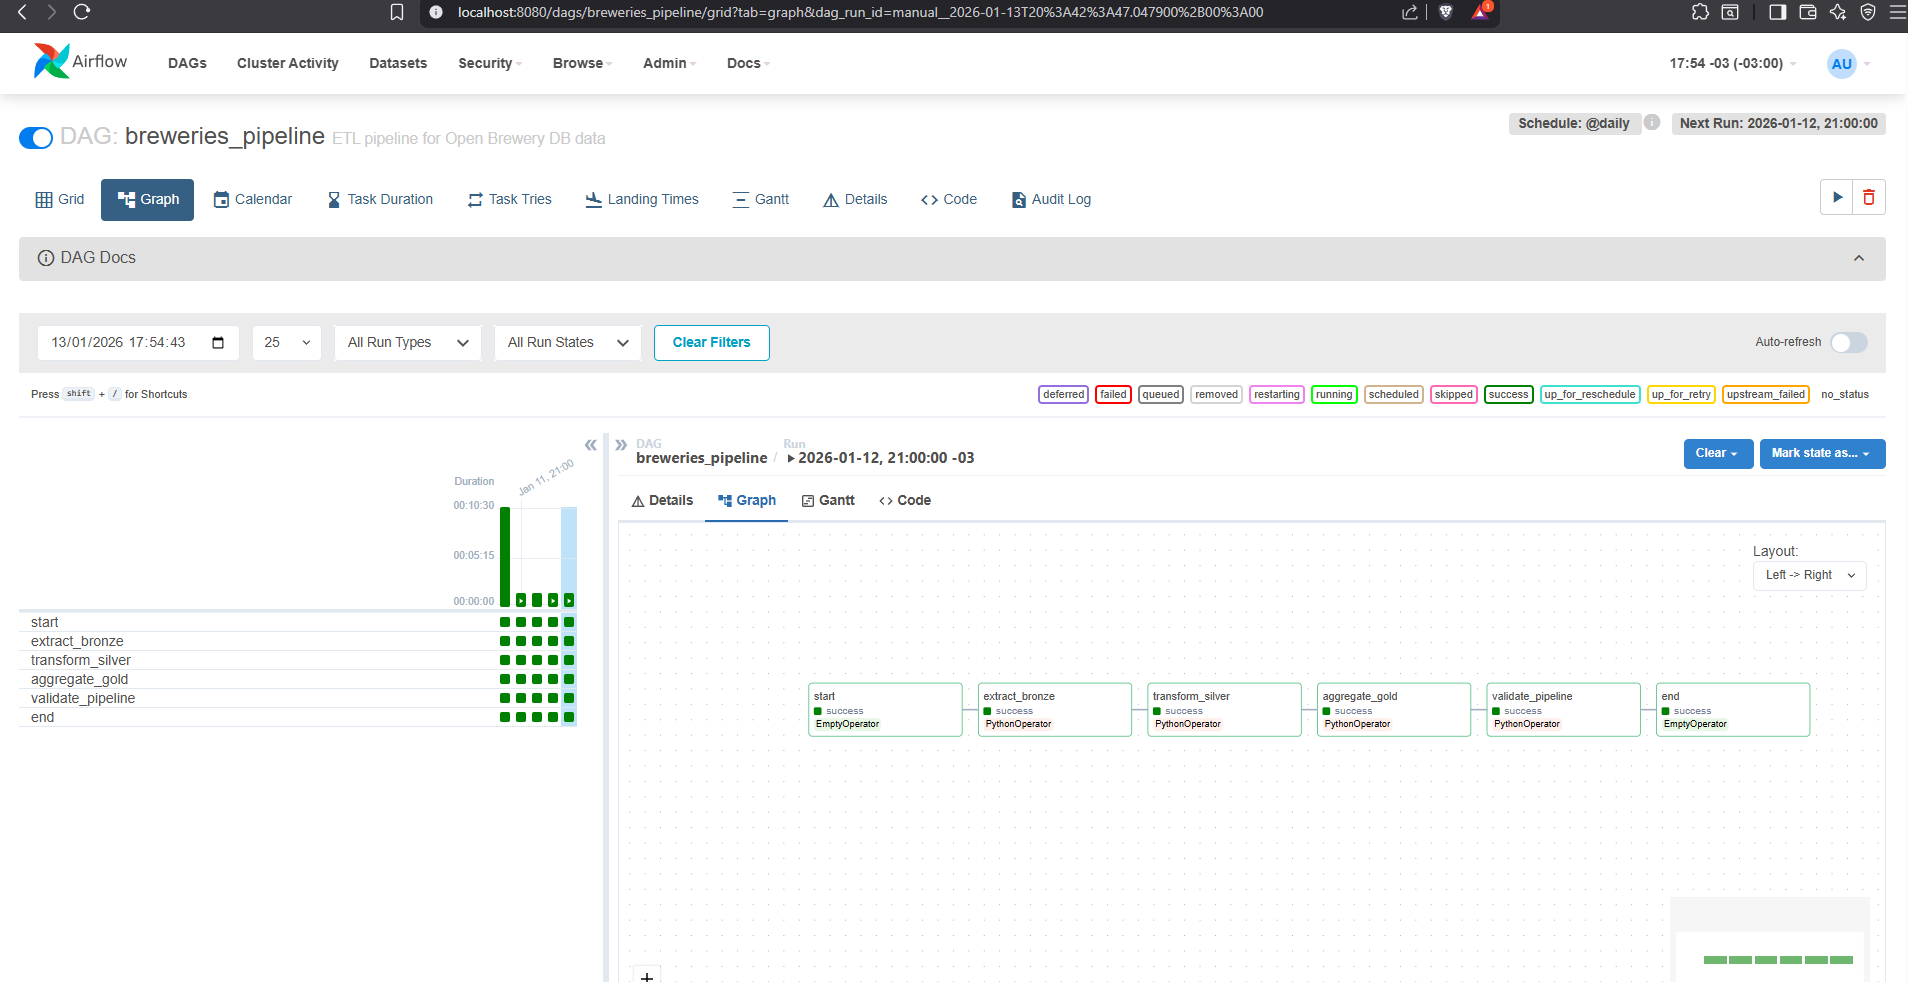
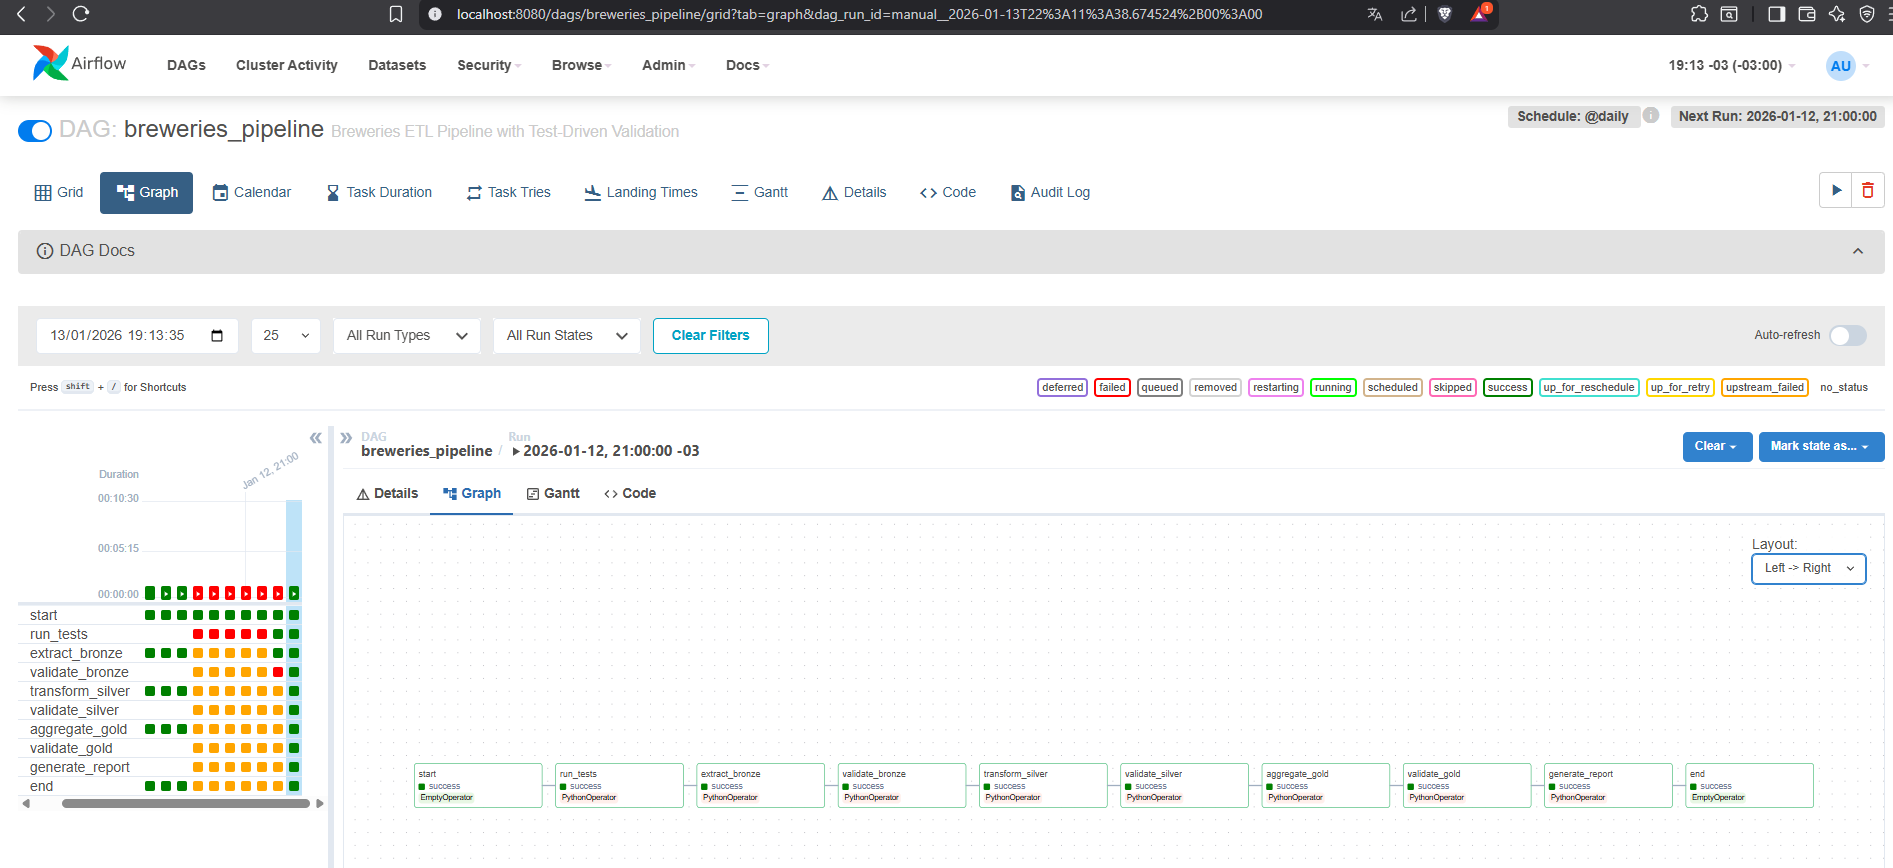
feat: add test-driven Airflow pipeline with data quality validations

diff --git a/orchestration/dags/breweries_pipeline.py b/orchestration/dags/breweries_pipeline.py
@@ -42,7 +42,7 @@ def run_unit_tests(**context):
     If tests fail, the pipeline stops immediately.
     """
     result = subprocess.run(
-        ["python", "-m", "pytest", "tests/", "-v", "--tb=short", "-q"],
+       ["python", "-m", "pytest", "/opt/airflow/tests", "-v", "--tb=short"],
         capture_output=True,
         text=True
     )
@@ -89,10 +89,10 @@ def validate_bronze_data(**context):
     
     checks = {
         "has_records": total_records > 0,
-        "has_pages": manifest.get("pages_written", 0) > 0,
-        "status_success": manifest.get("status") == "success",
+        "has_pages": len(manifest.get("pages", [])) > 0,
+        "has_expected_total": manifest.get("expected_total") == total_records,
     }
-    
+
     failed_checks = [k for k, v in checks.items() if not v]
     
     if failed_checks:

diff --git a/README.md b/README.md
@@ -427,6 +427,8 @@ pytest tests/unit/test_brewery_api_client.py -v
 - Aggregation logic
 - Edge cases (empty data, unicode, duplicates)
 
+Unit tests are executed in CI/CD before deployment. In this project, I added an optional pre-execution test task to demonstrate a test-driven mindset and to make the pipeline self-contained for local execution. In a production environment, this task would be disabled or moved entirely to CI.
+
 ---
 
 ## Monitoring & Alerting
